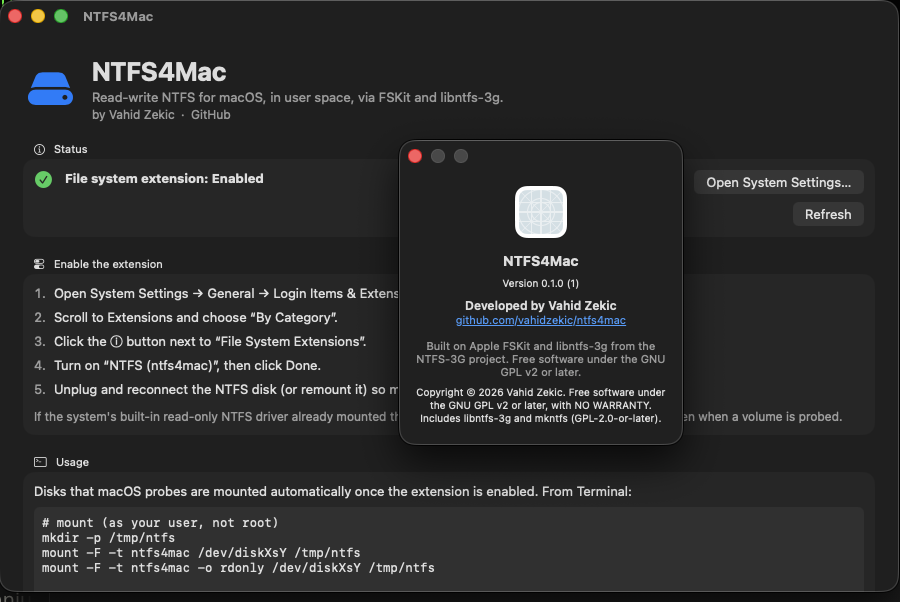
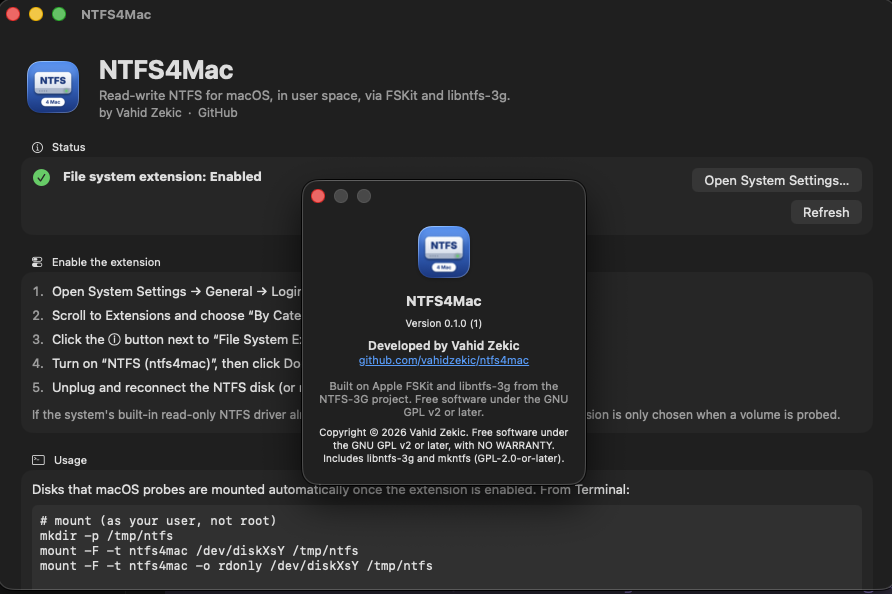
Add CHANGELOG, Intel installer naming, refreshed app screenshot
- CHANGELOG.md (Keep a Changelog) with the 0.1.0 entry.
- make-release.sh names single-arch installers -intel / -apple-silicon.
- v0.1.0 release notes target the Intel build; RELEASING.md updated.
- docs/images/app.png shows the new icon.

Claude-Session: https://claude.ai/code/session_01KFsojwYD2qU8F1843n16eK

diff --git a/CHANGELOG.md b/CHANGELOG.md
@@ -1,0 +1,69 @@
+# Changelog
+
+All notable changes to NTFS4Mac are documented here. The format follows
+[Keep a Changelog](https://keepachangelog.com/en/1.1.0/), and the project
+uses [Semantic Versioning](https://semver.org/).
+
+## [Unreleased]
+
+## [0.1.0] - 2026-10-09
+
+First public preview, by Vahid Zekic. Tested on an Intel Mac with
+macOS 26.5.
+
+### Added
+- **FSKit file-system extension** (`com.vahidzekic.ntfs4mac.NTFSExtension`,
+  short name `ntfs4mac`) that mounts NTFS volumes read-write in user space,
+  without a kernel extension or macFUSE.
+- **C bridge over libntfs-3g 2022.10.3**: lookup, directory listing with
+  resumable cookies, read/write, create, rename with POSIX replace
+  semantics, delete, hard links, symlinks (native Windows and WSL), times,
+  file attributes, volume label and statistics.
+- **Format as NTFS** with `mkntfs` running inside the extension:
+  `newfs_fskit -t ntfs4mac`, quick or full format, label, cluster size,
+  compression.
+- **Disk Utility integration**: `/Library/Filesystems/ntfs4mac.fs` adds
+  **NTFS** to Erase › Format and enables
+  `diskutil eraseDisk|eraseVolume NTFS4Mac …`.
+- **Check** (`fsck_fskit -t ntfs4mac`): reports dirty and hibernated
+  volumes and resets the journal with `-y`.
+- **Hibernation and Fast Startup detection**, with an automatic read-only
+  fallback.
+- **Mount options**: `rdonly`, `remove_hiberfile`, `recover`,
+  `show_sys_files`, `ignore_case` / `case_sensitive`, `uid`, `gid`, `fmask`,
+  `dmask` and `umask`.
+- **Host app NTFS4Mac**: shows whether the extension is enabled and how to
+  turn it on, plus an About panel and the GPL notice.
+- **App icon**.
+- **macOS installer** (`.pkg`) that installs the app and the file-system
+  bundle, built by `scripts/make-release.sh` with optional Developer ID
+  signing and notarization. `scripts/uninstall.sh` removes everything.
+- **Host-side C self-test** (`Tests/bridge`) against disk images: 13064
+  checks at 512- and 4096-byte sectors, clean under ASan/UBSan.
+- **Documentation**: README, architecture, testing guide, FSKit notes and
+  manifest reference, release guide.
+
+### Fixed during bring-up
+- **Format failing with EIO.** `newfs_fskit` reported EIO at mkntfs' final
+  "Syncing device" step although the volume had been written correctly.
+- **Lost log messages.** libntfs-3g and mkntfs messages were sent to
+  stderr, which an app extension cannot show. They now go to the unified
+  log.
+- **Intel builds.** The build failed on Intel Macs; the project is now
+  universal.
+- **"Open System Settings" button** did nothing from the sandboxed app.
+- **Missing app icon.** The asset catalog was left out of the app target.
+
+### Known issues
+- No full `chkdsk`. Repair corrupted volumes in Windows.
+- Apple's built-in read-only NTFS driver can mount a disk before
+  NTFS4Mac does. Unmount the disk and mount it again.
+- On macOS 26 the switch in System Settings' **By App** view does not
+  work. Use **By Category**.
+- Remounting a device immediately after unmounting it can fail with
+  EINVAL. Wait a few seconds before trying again.
+- No extended attributes or alternate data streams, and no POSIX ownership
+  mapping.
+
+[Unreleased]: https://github.com/vahidzekic/ntfs4mac/compare/v0.1.0...HEAD
+[0.1.0]: https://github.com/vahidzekic/ntfs4mac/releases/tag/v0.1.0

diff --git a/docs/RELEASING.md b/docs/RELEASING.md
@@ -49,16 +49,19 @@ NOTARY_PROFILE=ntfs4mac-notary \
 DEVELOPMENT_TEAM=MW256GPMA4 ./scripts/make-release.sh
 ```
 
+Add `ARCHS=x86_64` for an Intel-only installer (`NTFS4Mac-<version>-intel.pkg`)
+or `ARCHS=arm64` for Apple Silicon; the default is universal.
+
 Output in `build/release/`: `NTFS4Mac-<version>.pkg`, the libntfs-3g source
 tarball (the GPL requires shipping or offering it), and `SHA256SUMS`.
 
 ## Test the installer before publishing
 
 ```sh
-sudo installer -pkg build/release/NTFS4Mac-0.1.0.pkg -target /
+sudo installer -pkg build/release/NTFS4Mac-0.1.0*.pkg -target /
 diskutil listFilesystems | grep NTFS4Mac
-pkgutil --check-signature build/release/NTFS4Mac-0.1.0.pkg
-spctl -a -vv -t install build/release/NTFS4Mac-0.1.0.pkg   # "accepted" once notarized
+pkgutil --check-signature build/release/NTFS4Mac-0.1.0*.pkg
+spctl -a -vv -t install build/release/NTFS4Mac-0.1.0*.pkg   # "accepted" once notarized
 ```
 
 Enable the extension (By Category), format a RAM disk from Disk Utility, copy
@@ -70,7 +73,7 @@ files in Finder, eject.
 git tag -a v0.1.0 -m "NTFS4Mac 0.1.0" && git push origin v0.1.0
 gh release create v0.1.0 --prerelease --title "NTFS4Mac 0.1.0" \
    --notes-file docs/release-notes/v0.1.0.md \
-   build/release/NTFS4Mac-0.1.0.pkg build/release/*.tgz build/release/SHA256SUMS
+   build/release/NTFS4Mac-0.1.0*.pkg build/release/*.tgz build/release/SHA256SUMS
 ```
 
 Without `gh`: GitHub › Releases › Draft a new release, pick the tag, paste
@@ -83,6 +86,7 @@ only runs on Macs registered to the team.
 ## New version
 
 Bump `MARKETING_VERSION` (and `CURRENT_PROJECT_VERSION`) in `project.yml`,
+move the `[Unreleased]` entries in `CHANGELOG.md` under the new version,
 add `docs/release-notes/v<version>.md`, then repeat Build/Publish.
 
 ## Uninstall

diff --git a/docs/release-notes/v0.1.0.md b/docs/release-notes/v0.1.0.md
@@ -20,14 +20,15 @@ built on Apple's FSKit and libntfs-3g 2022.10.3.
 
 ## Install
 
-1. Download `NTFS4Mac-0.1.0.pkg` and open it.
+1. Download `NTFS4Mac-0.1.0-intel.pkg` (Intel Macs) and open it.
 2. Enable the extension: **System Settings › General › Login Items &
    Extensions › By Category › File System Extensions (ⓘ) › NTFS (ntfs4mac)**.
    The switch in the "By App" view does not work on macOS 26.
 3. Reconnect your NTFS disk, or format one in Disk Utility.
 
-Requires macOS 15.4 or later (15.6+ recommended). Universal (Intel and Apple
-Silicon); so far only tested on Intel.
+Requires macOS 15.4 or later (15.6+ recommended). This build is for **Intel
+Macs** (x86_64), the platform it was tested on. Apple Silicon users can build
+from source (`scripts/make-release.sh` builds universal by default).
 
 ## Known limitations
 
@@ -44,3 +45,6 @@ Copyright © 2026 Vahid Zekic. GPL-2.0-or-later (use under GPL-2.0 or GPL-3.0), 
 [tuxera/ntfs-3g](https://github.com/tuxera/ntfs-3g). The exact libntfs-3g
 source used for this build is attached as `ntfs-3g_ntfsprogs-2022.10.3.tgz`;
 the NTFS4Mac source is this tag.
+
+See [CHANGELOG.md](https://github.com/vahidzekic/ntfs4mac/blob/main/CHANGELOG.md)
+for the full list of changes.

diff --git a/README.md b/README.md
@@ -21,7 +21,8 @@
   <a href="https://github.com/vahidzekic/ntfs4mac/releases"><b>Download</b></a> ·
   <a href="#screenshots">Screenshots</a> ·
   <a href="#quick-start">Build from source</a> ·
-  <a href="docs/TESTING.md">Testing guide</a>
+  <a href="docs/TESTING.md">Testing guide</a> ·
+  <a href="CHANGELOG.md">Changelog</a>
 </p>
 
 A native, user-space **read/write NTFS driver for macOS 15.4+**, built as an
